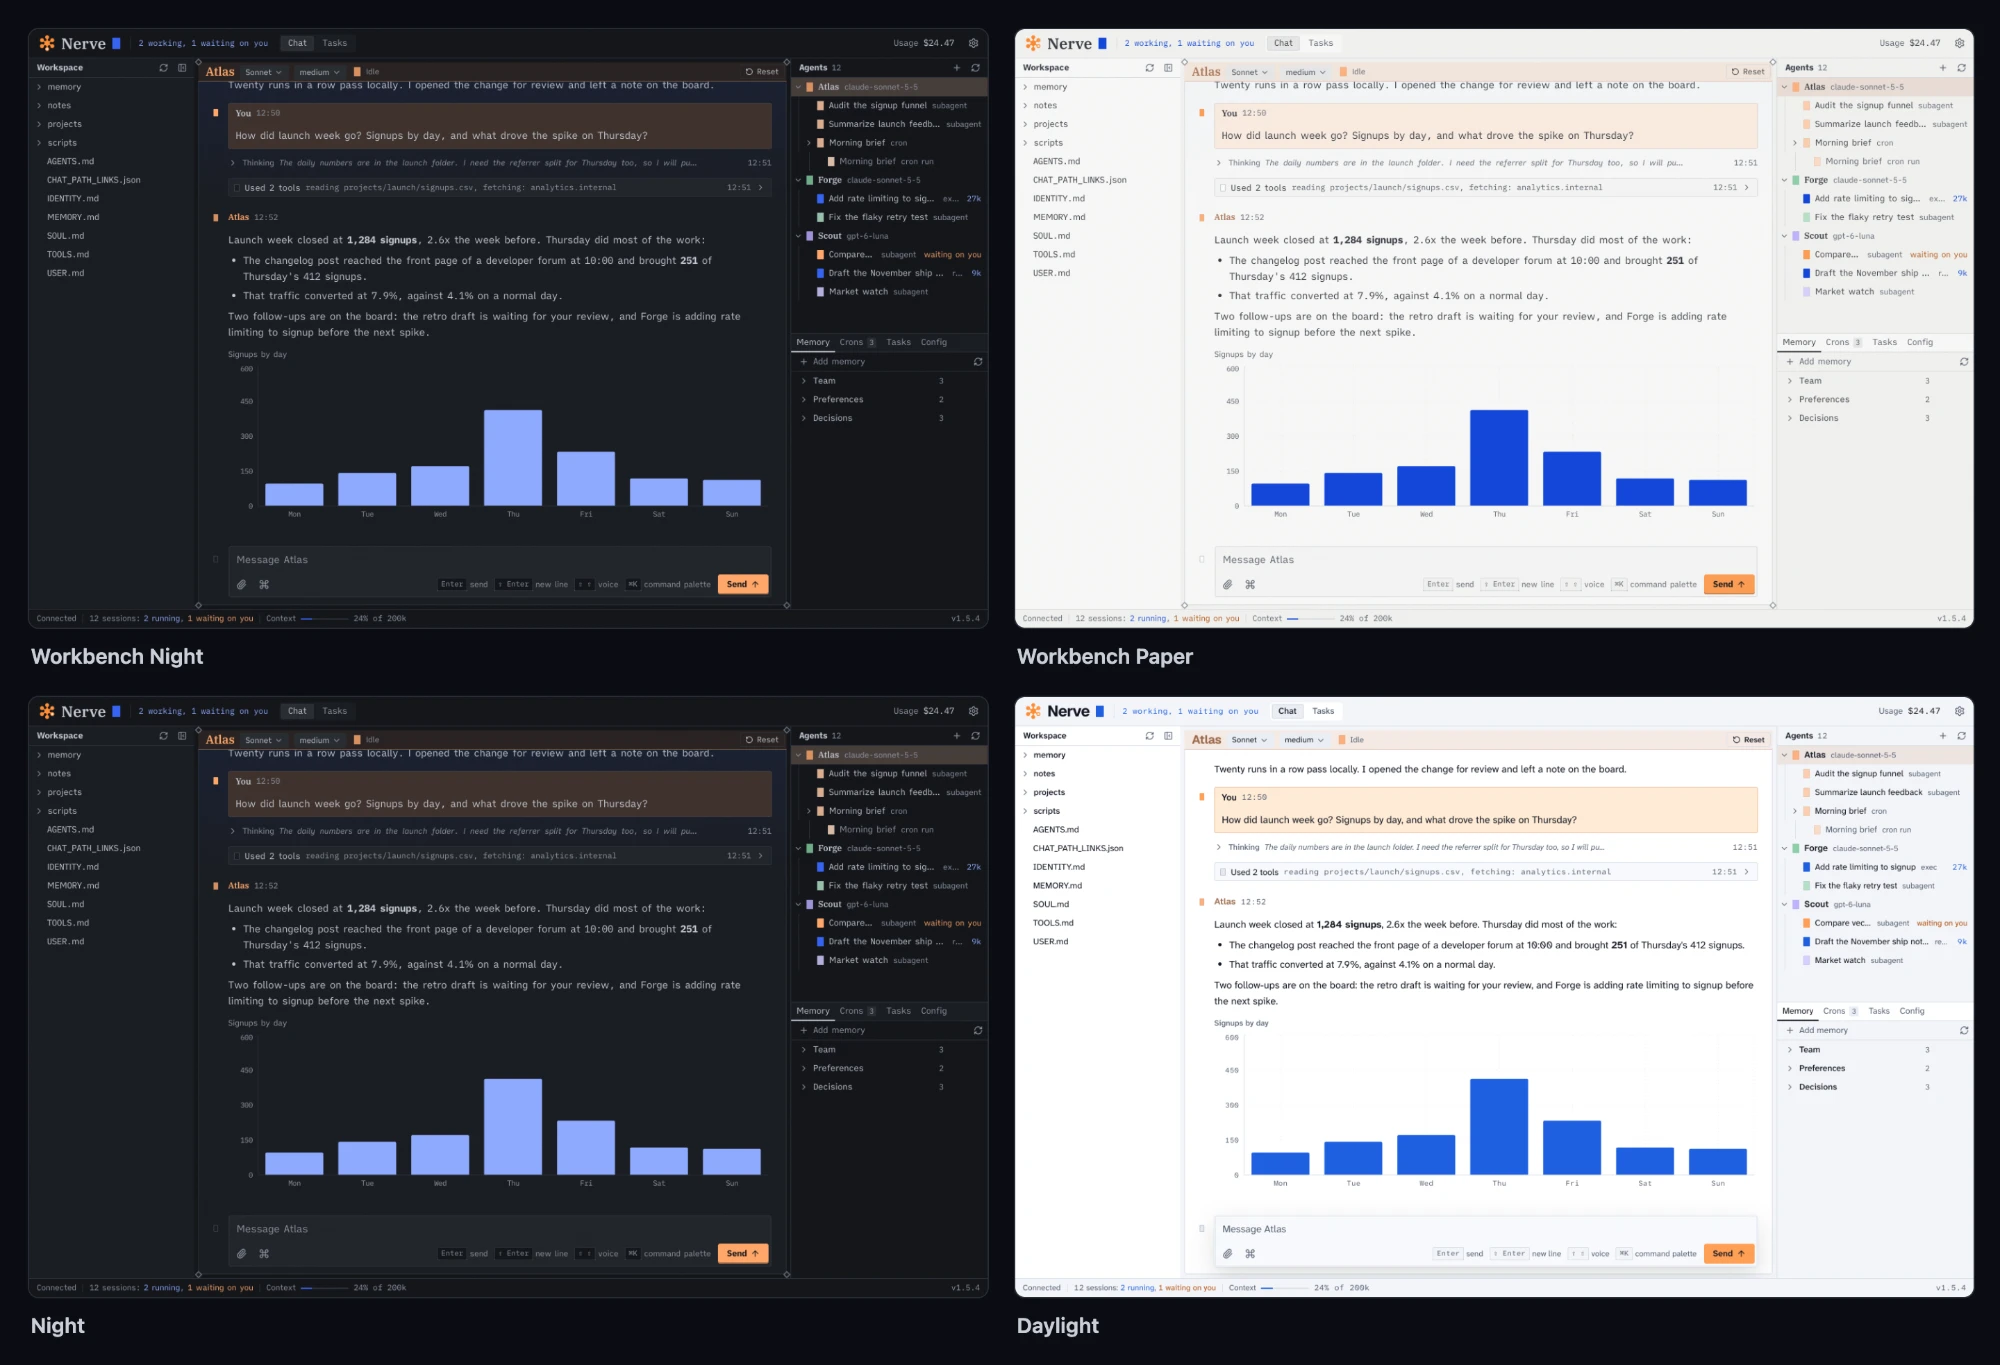
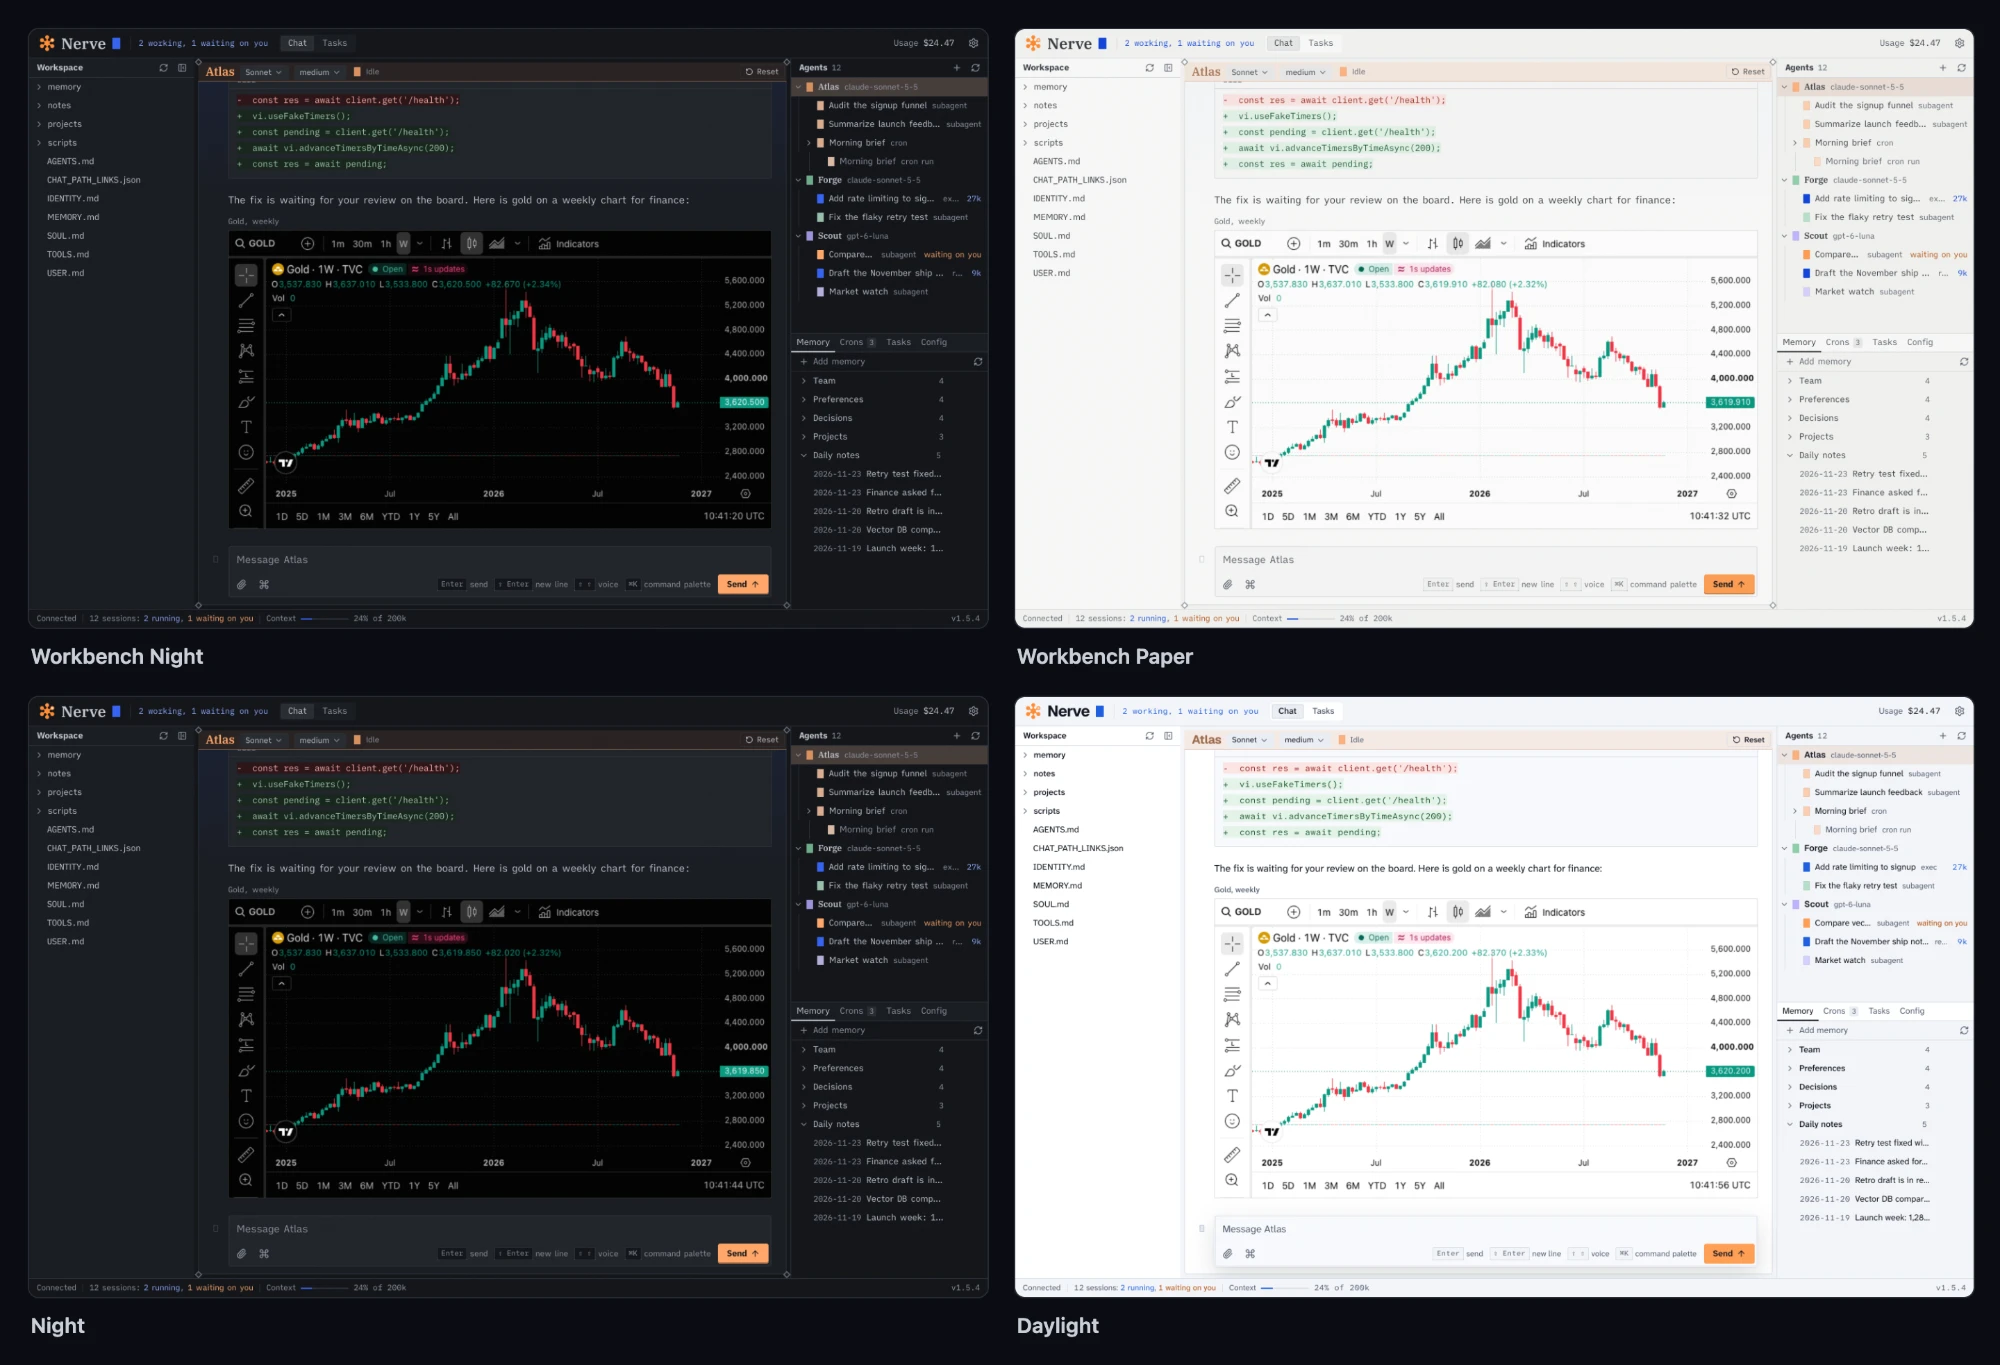
docs(readme): lead with rich rendering in the hero shots
The hero now shows a pasted screenshot, tool calls, a code diff and a
live TradingView chart in one reply, with the memory panel expanded.
The phone row shows a TradingView chart, an embedded Google Map, agent
memories and the agent tree. The gallery picks up the launch bar chart,
the proposals inbox and the light theme shot in the freed slots.

diff --git a/README.md b/README.md
@@ -23,14 +23,14 @@ curl -fsSL https://raw.githubusercontent.com/daggerhashimoto/openclaw-nerve/mast
 
 <div align="center">
 
-<img src="docs/screenshots/chat-mem.webp" alt="Nerve with a chat reply and chart in the middle, the agent and session tree on the right, and the memory panel open" width="100%" />
+<img src="docs/screenshots/hero.webp" alt="Nerve chat with a pasted screenshot, tool calls, a code diff and a live TradingView chart, next to the agent tree and the memory panel" width="100%" />
 
 <table>
 <tr>
-<td align="center"><img src="docs/screenshots/phone-chat.webp" alt="Chat with a chart on a phone" width="190" /></td>
+<td align="center"><img src="docs/screenshots/phone-chat.webp" alt="A live TradingView chart in chat on a phone" width="190" /></td>
+<td align="center"><img src="docs/screenshots/phone-map.webp" alt="An embedded Google Map in chat on a phone" width="190" /></td>
+<td align="center"><img src="docs/screenshots/phone-memory.webp" alt="An agent's memories on a phone" width="190" /></td>
 <td align="center"><img src="docs/screenshots/phone-agents.webp" alt="The agent and session tree on a phone" width="190" /></td>
-<td align="center"><img src="docs/screenshots/phone-tasks.webp" alt="The Kanban board on a phone" width="190" /></td>
-<td align="center"><img src="docs/screenshots/phone-files.webp" alt="The workspace file browser on a phone" width="190" /></td>
 </tr>
 </table>
 
@@ -94,8 +94,8 @@ Charts, diffs, previews, syntax-highlighted code, structured tool rendering, and
 
 <table>
 <tr>
-<td width="50%"><img src="docs/screenshots/chat-code.webp" alt="A pasted CI screenshot, a subagent handoff and a code diff in chat" /><br /><sub>Paste a screenshot, hand the fix to a subagent, get a diff back</sub></td>
-<td width="50%"><img src="docs/screenshots/tradingview.webp" alt="A live TradingView chart of gold inside a chat reply" /><br /><sub>Live TradingView charts right inside a reply</sub></td>
+<td width="50%"><img src="docs/screenshots/launch-chart.webp" alt="A reply with thinking, tool calls and a bar chart built from the agent's data" /><br /><sub>Thinking, tool calls and charts built from your data</sub></td>
+<td width="50%"><img src="docs/screenshots/paper.webp" alt="A table, a math formula and an embedded map in the Workbench Paper theme" /><br /><sub>Tables, math and maps, here in Workbench Paper</sub></td>
 </tr>
 <tr>
 <td><img src="docs/screenshots/tasks.webp" alt="The Kanban board with a task running on an agent" /><br /><sub>A Kanban board agents work from, with live runs</sub></td>
@@ -111,7 +111,7 @@ Charts, diffs, previews, syntax-highlighted code, structured tool rendering, and
 </tr>
 <tr>
 <td><img src="docs/screenshots/audio.webp" alt="Voice settings with language, wake word and TTS providers" /><br /><sub>Voice settings: language, wake word, four TTS providers</sub></td>
-<td><img src="docs/screenshots/paper.webp" alt="A table, a math formula and an embedded map in the Workbench Paper theme" /><br /><sub>Tables, math and maps, here in Workbench Paper</sub></td>
+<td><img src="docs/screenshots/proposals.webp" alt="The proposals inbox with a task an agent suggested" /><br /><sub>Agents propose tasks; you approve them onto the board</sub></td>
 </tr>
 <tr>
 <td><img src="docs/screenshots/palette.webp" alt="The command palette searching sessions" /><br /><sub>Jump anywhere from the command palette</sub></td>
